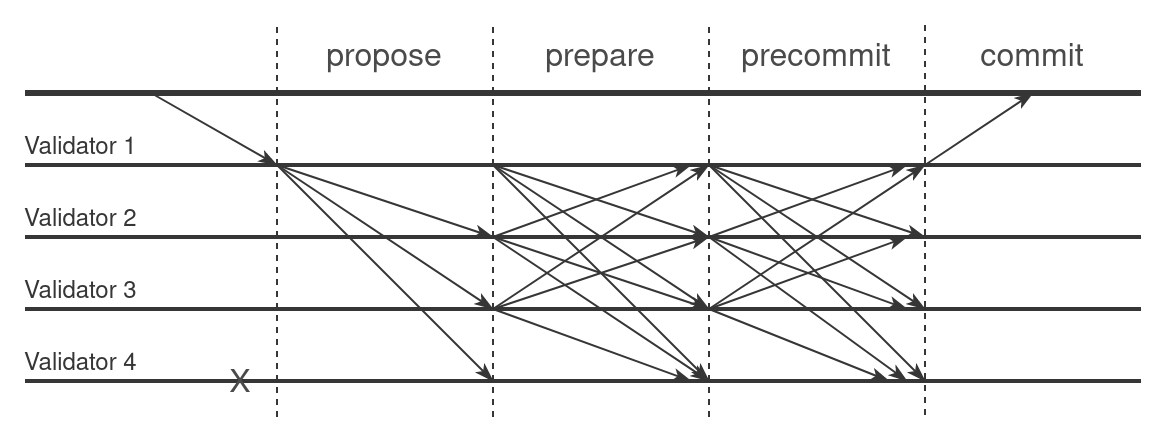
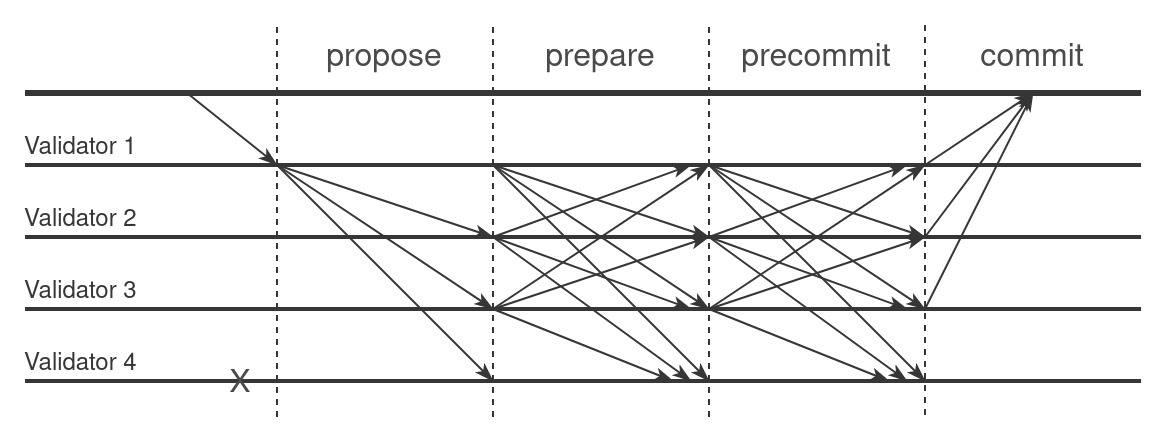
updating the consensus protocol

diff --git a/website/learn/consensus/protocol/index.md b/website/learn/consensus/protocol/index.md
@@ -72,7 +72,7 @@ where:
 - $$d$$ is digest or hash of proposed block $$B$$
 
 If validator $$i$$ received $$2f+1$$ prepare messages from other
-validators (including its own), it is **prepared** and enters to precommit step.
+validators (including its own), it becomes **prepared** and enters to precommit step.
 
 #### Precommit step
 
@@ -87,9 +87,8 @@ $$2f+1$$ precommit messages (including its own) and becomes **committed**.
 
 #### Block announcement
 
-Once the proposer receives $$2f+1$$ precommit messages from other
-validators (including its own), it can create a
-block-announce messages and broadcasts it to the network.
+Each validator that receives a valid proposal and with $$2f+1$$ precommit messages from other
+validators (including its own), can create a block-announce messages and broadcasts it to the network.
 The block-announce message has this form:
 
 $$\langle \text{BLOCK-ANNOUNCE} ,h ,r ,B, C \rangle$$
@@ -99,7 +98,7 @@ where:
 - $$C$$ is the quorum certificate for the precommit step.
 
 Validators can move to the next height and clear the message logs after receiving valid
-block-announce message.
+block-announce message, even if their timer has expired.
 
 The picture below shows the operation of the algorithm in the normal case. validator 1 is the
 proposer and validator 4 is faulty.
